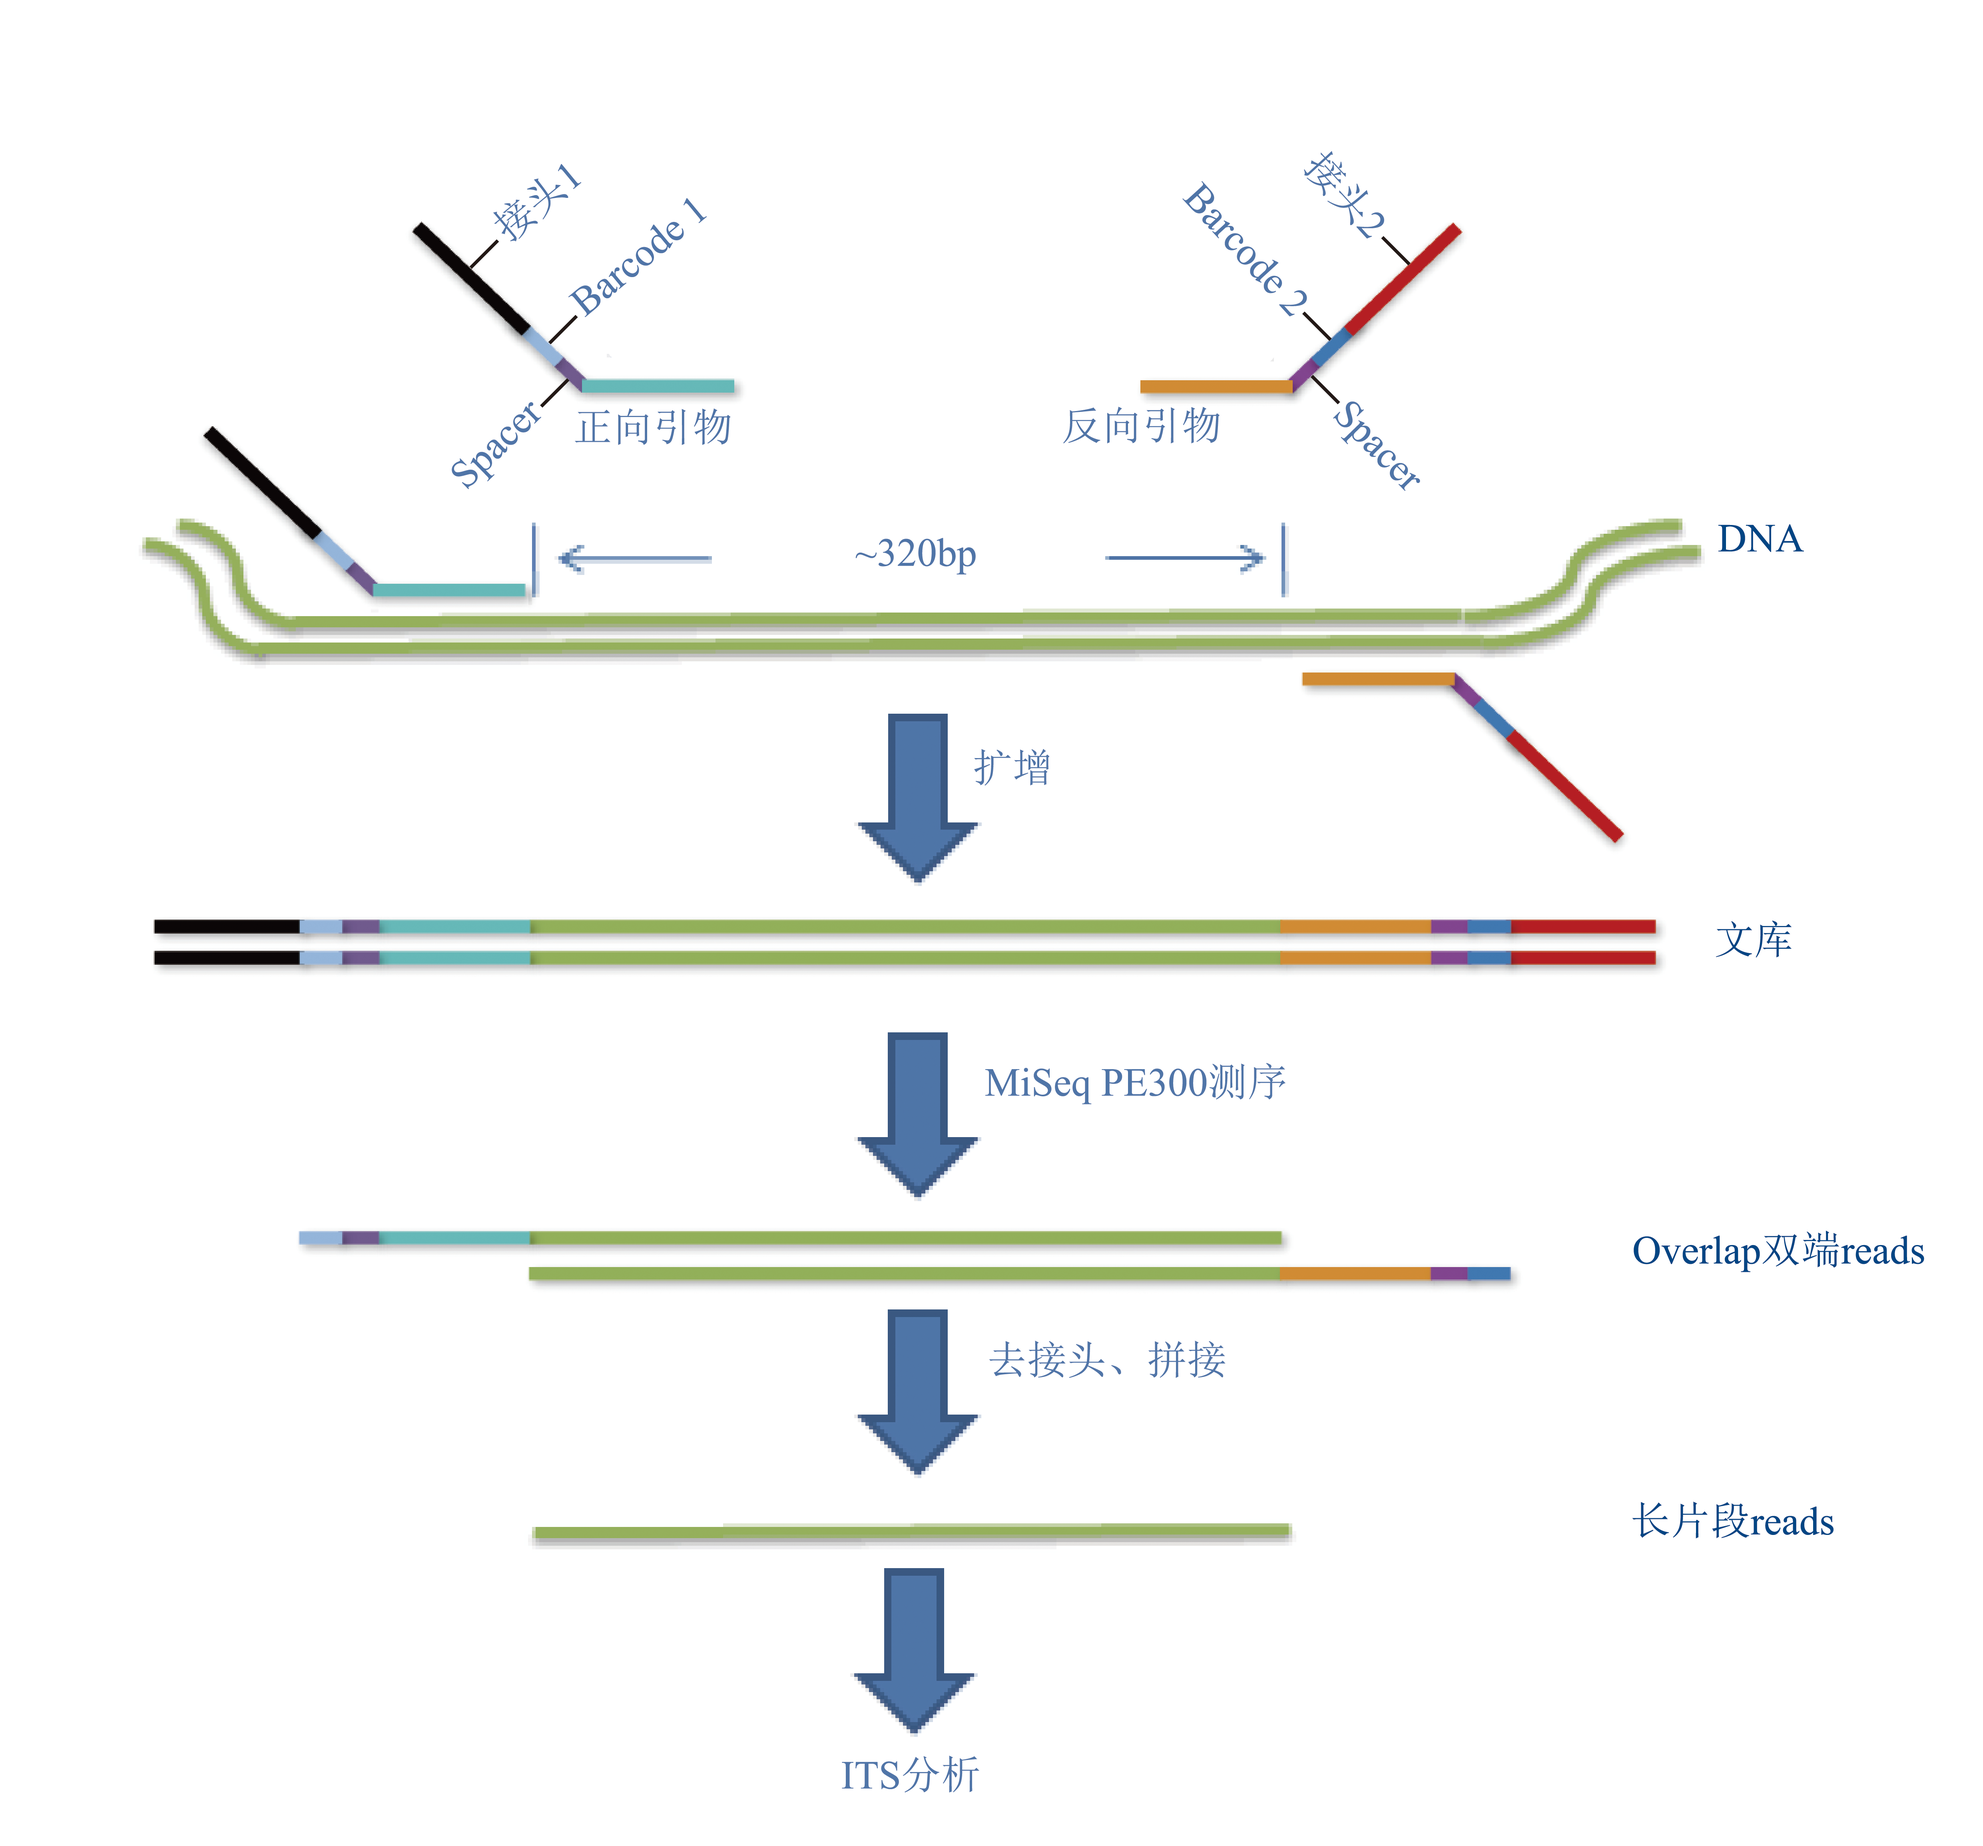
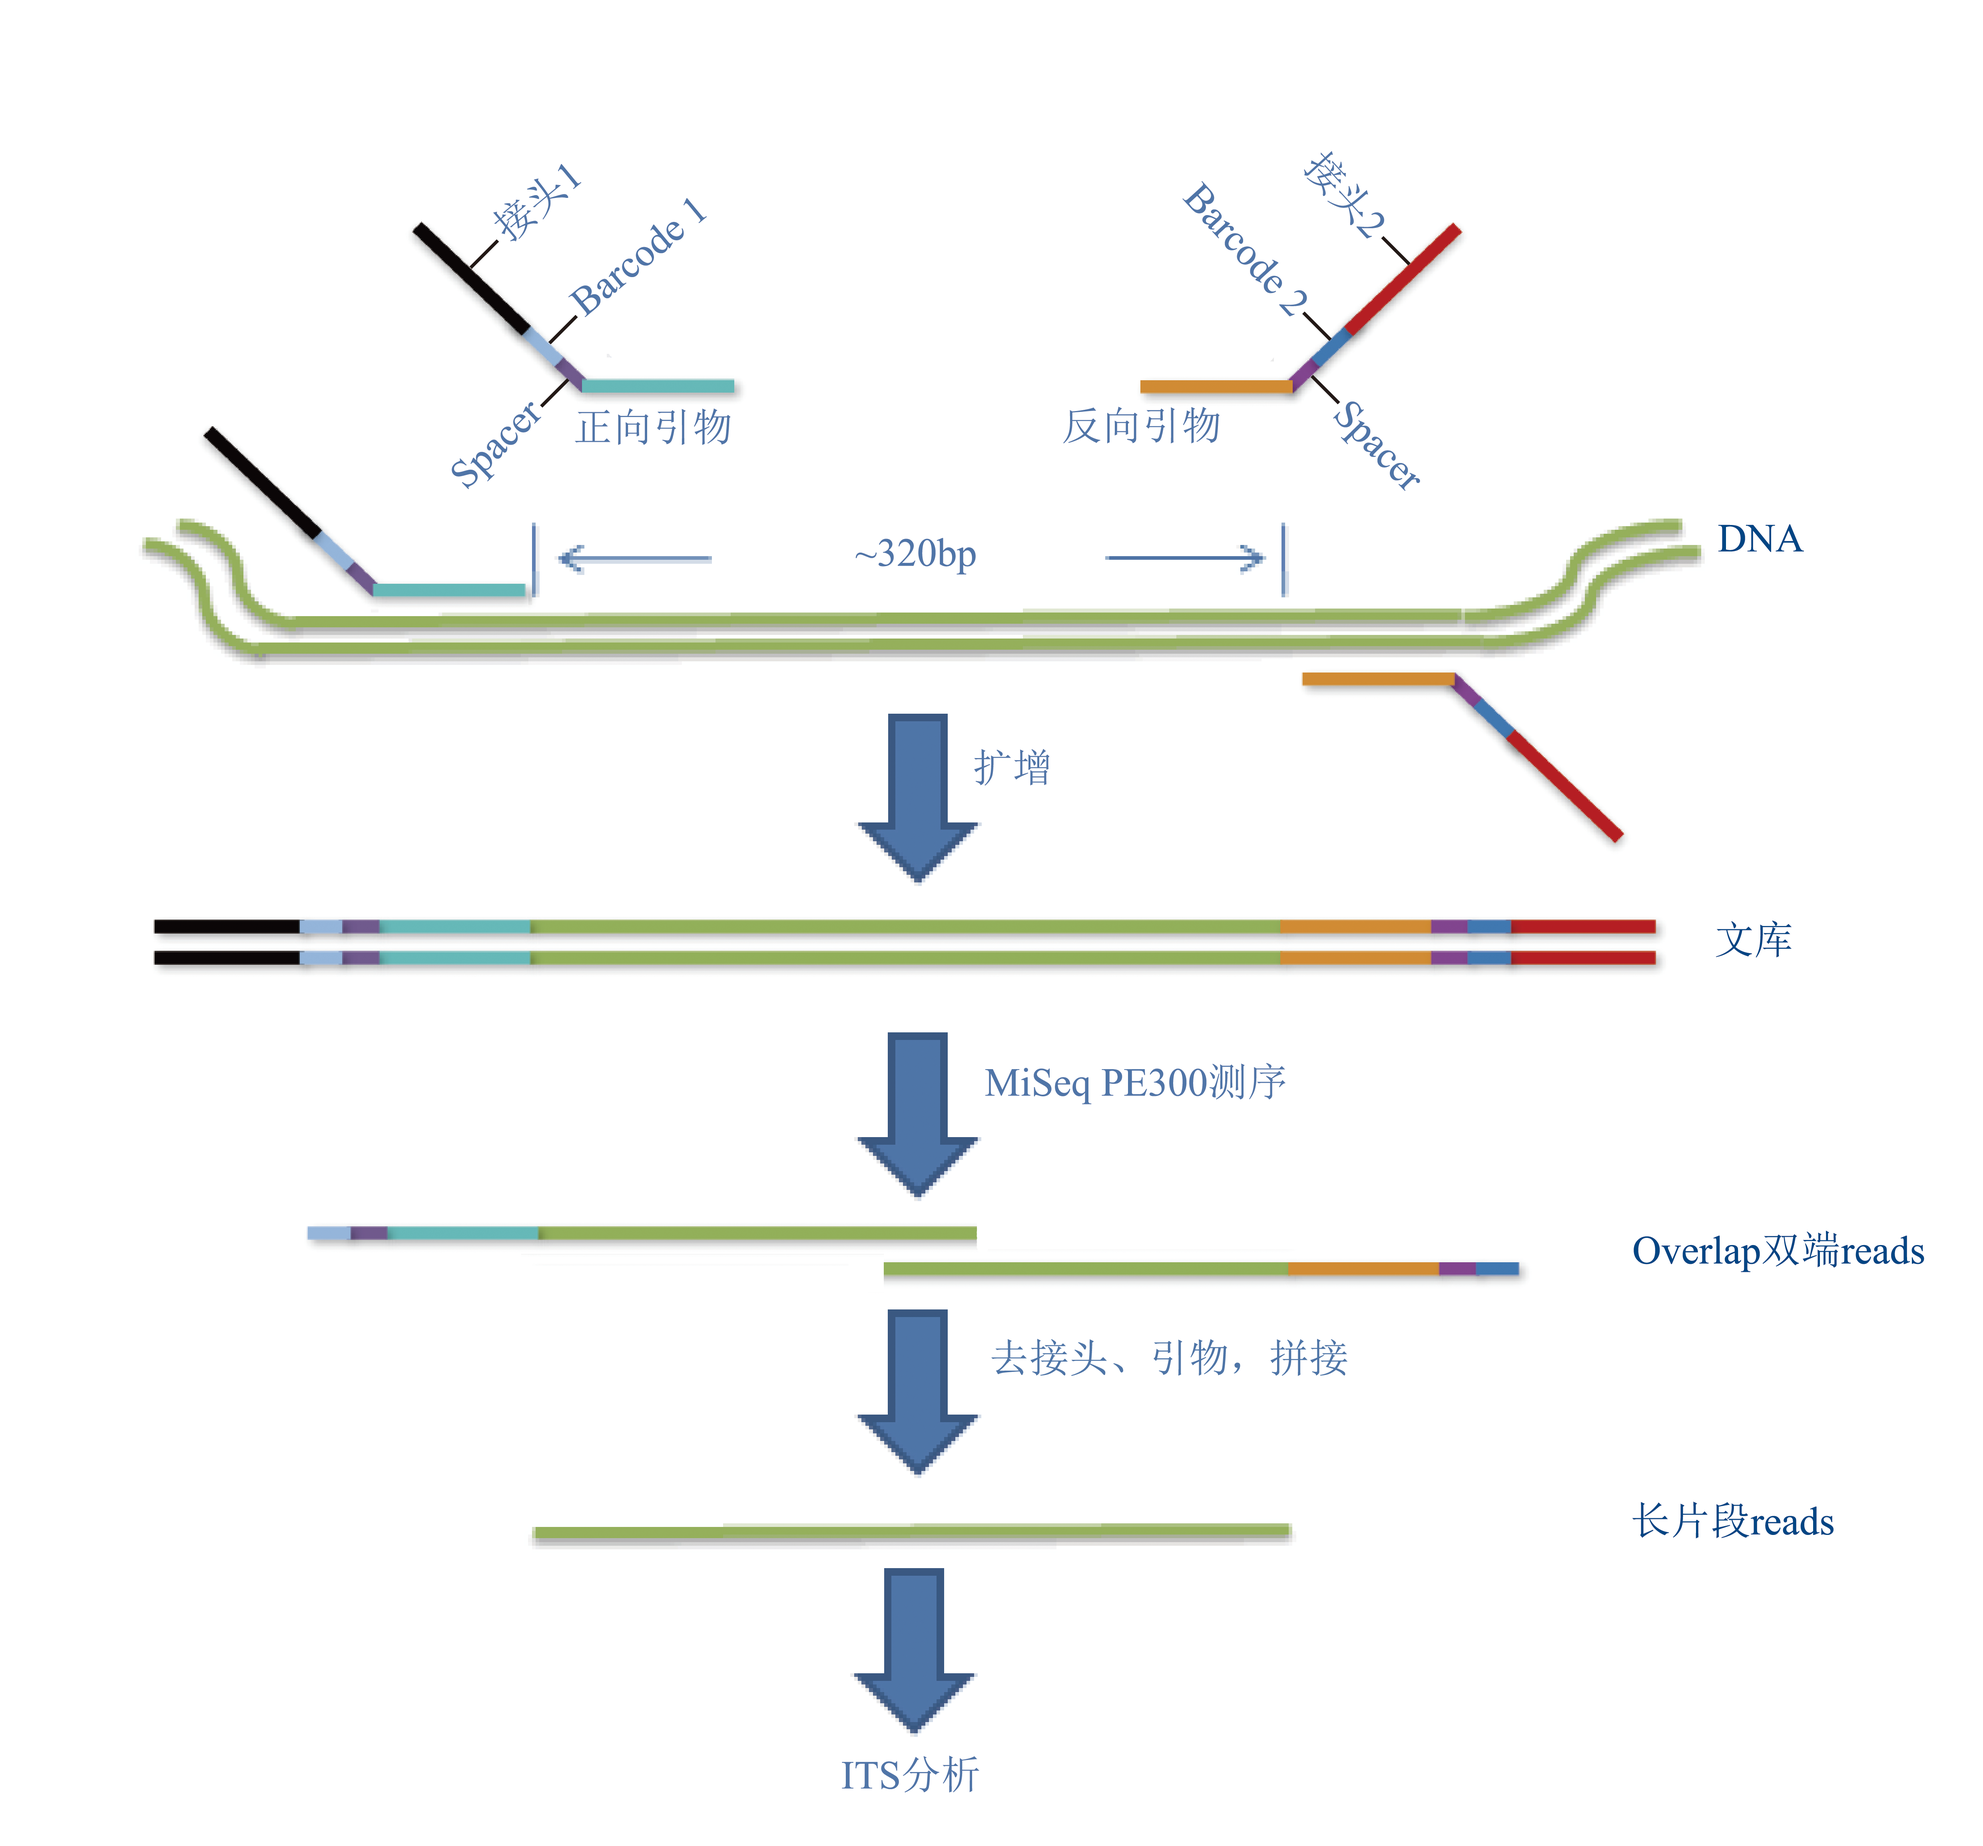
png

Changed region(s): [[0.1562, 0.655, 0.7811, 0.7485]]

diff --git a/src/16S20151014/templates/report.html b/src/16S20151014/templates/report.html
@@ -81,7 +81,7 @@
             <p class="center">
             	<img class="size1" src="images/group/core_otu.png"/>
             </p>
-            <p class="name_fig">图2-3-1 共有OTU数与样品的关系。
+            <p class="name_fig">图2-3-1 共有OTU数与样品的关系
             </p>
             <p class="premark">图中表示的是覆盖一定比例以上样品的OTU的数目，横坐标是覆盖样品的比例，纵坐标是统计的覆盖大于此比例样品的OTU的数目。</p>
             <p class="paragraph">结合OTU所代表的物种，可以找出Core microbiome（即覆盖100%样品的微生物组）。该项目的Core microbiome共包含{{core_microbiome}}个OTUs，<a href="..\results\02_OTU\{{ group_file }}\core_otu.tsv" target="_blank">core_otu.tsv</a>其部分物种信息如下：</p>
@@ -112,7 +112,7 @@
             <p class="center">
             	<img class="size1" src="images/group/venn.png"/>
             </p>
-            <p class="name_fig">图2-5 OTU venn图（2-5组）</p>
+            <p class="name_fig">图2-4-1 OTU venn图（2-5组）</p>
             <p class="premark">不同颜色图形代表不同样品或者不同组别，不同颜色图形之间交叠部分数字为两个样品或两个组别之间共有的OTU个数。同理，多个颜色图形之间交叠部分数字为多个样品或组别之间共有OTU个数。Venn图容许2-5个样品或组别。</p>
 		 
 		{% else %}

diff --git a/src/16S20151014/templates/pdf.html b/src/16S20151014/templates/pdf.html
@@ -76,7 +76,7 @@
         <p class="center">
             <img class="size1" src="images/group/core_otu.png"/>
         </p>
-        <p class="name_fig">图2-3-1 共有OTU数与样品的关系。
+        <p class="name_fig">图2-3-1 共有OTU数与样品的关系
         </p>
         <p class="premark">图中表示的是覆盖一定比例以上样品的OTU的数目，横坐标是覆盖样品的比例，纵坐标是统计的覆盖大于此比例样品的OTU的数目。</p>
         <p class="paragraph">结合OTU所代表的物种，可以找出Core microbiome（即覆盖100%样品的微生物组）。该项目的Core microbiome共包含{{core_microbiome}}个OTUs，<a href="..\results\02_OTU\{{ group_file }}\core_otu.tsv" target="_blank">core_otu.tsv</a>其部分物种信息如下：</p>
@@ -106,7 +106,7 @@
         <p class="center">
 			<img class="size1" src="images/group/venn.png"/>
         </p>
-		<p class="name_fig">图2-5 OTU venn图（2-5组）</p>
+		<p class="name_fig">图2-4-1 OTU venn图（2-5组）</p>
 		<p class="premark">不同颜色图形代表不同样品或者不同组别，不同颜色图形之间交叠部分数字为两个样品或两个组别之间共有的OTU个数。同理，多个颜色图形之间交叠部分数字为多个样品或组别之间共有OTU个数。Venn图容许2-5个样品或组别。</p>
 		 
 {% else %}
